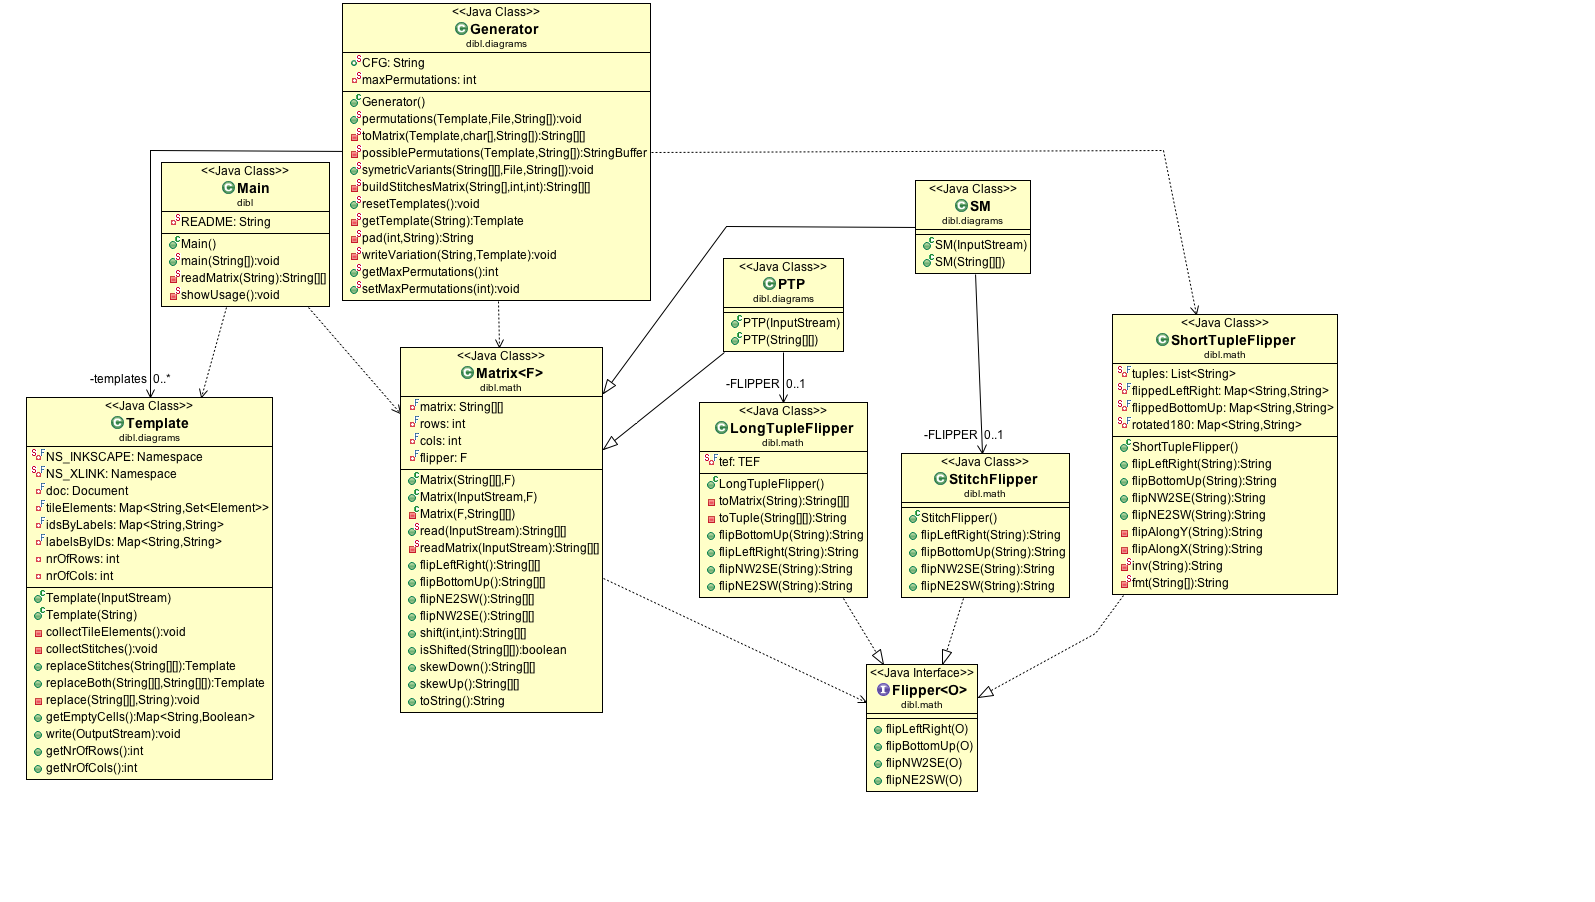
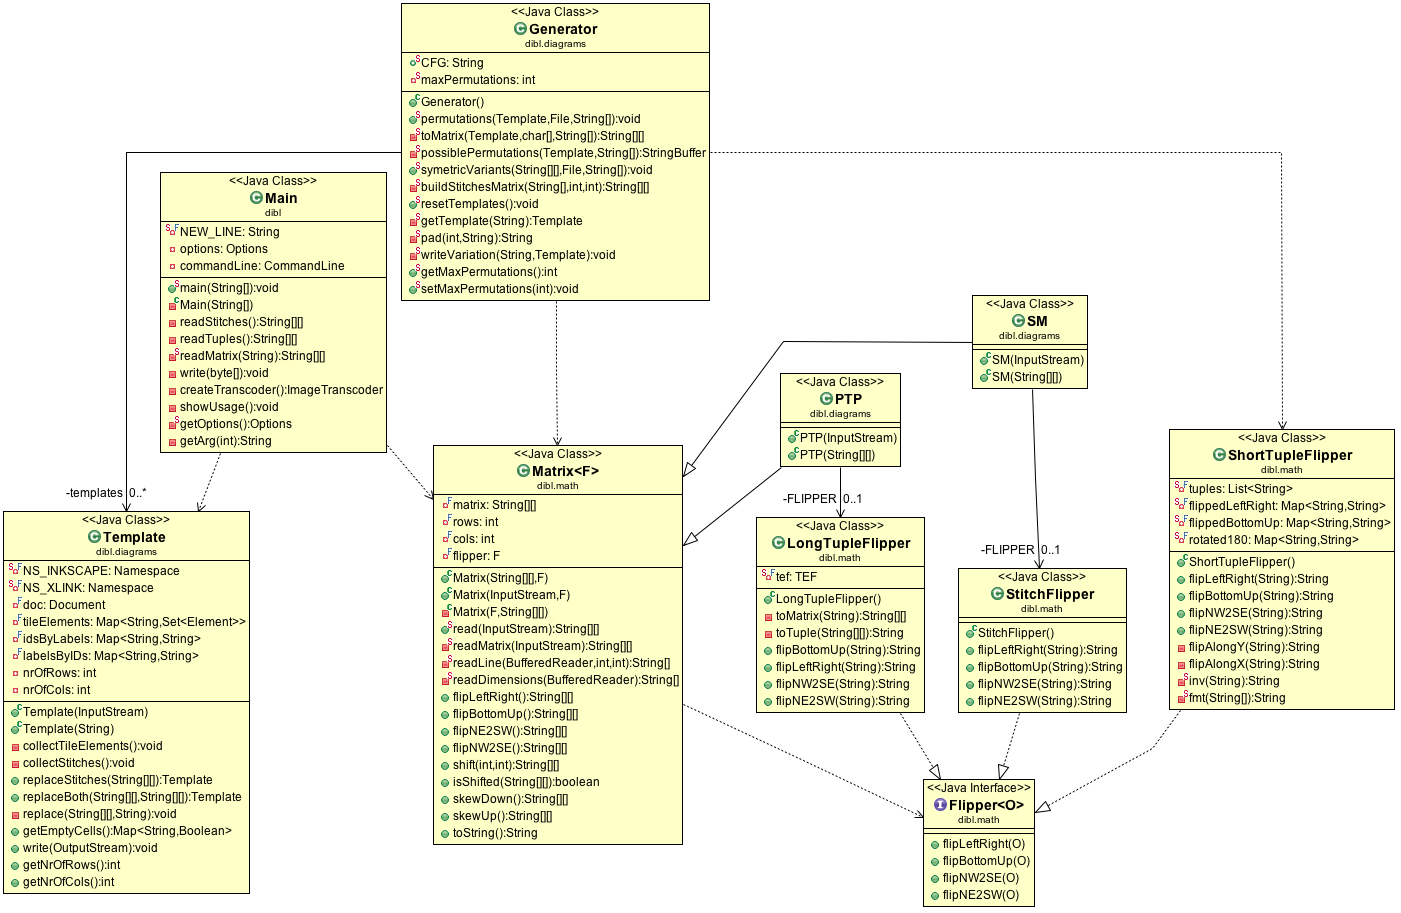
completed new command line interface
- allowing jpg/png/tiff output
- restored flip and rotate

diff --git a/src/main/java/dibl/Main.java b/src/main/java/dibl/Main.java
@@ -14,49 +14,80 @@
 // @formatter:on
 package dibl;
 
-import java.io.BufferedReader;
 import java.io.ByteArrayInputStream;
 import java.io.ByteArrayOutputStream;
 import java.io.File;
 import java.io.FileInputStream;
-import java.io.FileNotFoundException;
 import java.io.IOException;
-import java.io.InputStreamReader;
+import java.io.PrintStream;
 
+import org.apache.batik.transcoder.TranscoderException;
+import org.apache.batik.transcoder.TranscoderInput;
+import org.apache.batik.transcoder.TranscoderOutput;
+import org.apache.batik.transcoder.image.ImageTranscoder;
+import org.apache.batik.transcoder.image.JPEGTranscoder;
+import org.apache.batik.transcoder.image.PNGTranscoder;
+import org.apache.batik.transcoder.image.TIFFTranscoder;
+import org.apache.commons.cli.BasicParser;
+import org.apache.commons.cli.CommandLine;
+import org.apache.commons.cli.HelpFormatter;
+import org.apache.commons.cli.Options;
+import org.apache.commons.cli.ParseException;
 import org.jdom2.JDOMException;
 
 import dibl.diagrams.Template;
 import dibl.math.Matrix;
+import dibl.math.ShortTupleFlipper;
 
 public class Main
 {
-    private static String README = "README.txt";// not final to allow WhiteboxTest
+    private static final String NEW_LINE = System.getProperty("line.separator");
+    private Options options;
+    private CommandLine commandLine;
 
-    public static void main(final String... args) throws IOException, JDOMException
+    public static void main(final String... args) throws IOException, JDOMException, TranscoderException, ParseException
     {
+        new Main(args);
+    }
+
+    private Main(final String... args) throws ParseException, IOException, JDOMException, TranscoderException
+    {
+        options = getOptions();
+        commandLine = new BasicParser().parse(options, args);
+        if (commandLine.hasOption("help"))
+        {
+            showUsage();
+            return;
+        }
         final ByteArrayOutputStream out = new ByteArrayOutputStream();
-        switch (args.length)
+        switch (commandLine.getArgList().size())
         {
         case 1:
-            new Template(System.in).replaceStitches(readMatrix(args[0])).write(out);
+            new Template(System.in).replaceStitches(readStitches()).write(out);
             break;
         case 2:
-            new Template(System.in).replaceBoth(readMatrix(args[0]), readMatrix(args[1])).write(out);
+            new Template(System.in).replaceBoth(readStitches(), readTuples()).write(out);
             break;
         default:
             showUsage();
             return;
         }
-        System.out.write(out.toByteArray());
-        // <dependency>
-        // <groupId>batik</groupId>
-        // <artifactId>batik-rasterizer</artifactId>
-        // <version>1.6-1</version>
-        // </dependency>
+        write(out.toByteArray());
+    }
 
-        // final TranscoderInput input = new TranscoderInput(new
-        // ByteArrayInputStream(out.toByteArray()));
-        // new PNGTranscoder().transcode(input, new TranscoderOutput(System.out));
+    private String[][] readStitches() throws IOException
+    {
+        return readMatrix(getArg(0));
+    }
+
+    private String[][] readTuples() throws IOException
+    {
+        String[][] tuples = readMatrix(getArg(1));
+        if (commandLine.hasOption("x"))
+            tuples = new Matrix<ShortTupleFlipper>(tuples, new ShortTupleFlipper()).flipNW2SE();
+        if (commandLine.hasOption("y"))
+            tuples = new Matrix<ShortTupleFlipper>(tuples, new ShortTupleFlipper()).flipNE2SW();
+        return tuples;
     }
 
     private static String[][] readMatrix(final String arg) throws IOException
@@ -70,30 +101,75 @@ public class Main
         }
         catch (final IOException e)
         {
-            throw new IOException(arg + "\n" + e.getMessage());
+            throw new IOException(arg + NEW_LINE + e.getMessage());
         }
         catch (final IllegalArgumentException e)
         {
-            throw new IllegalArgumentException(arg + "\n" + e.getMessage());
+            throw new IllegalArgumentException(arg + NEW_LINE + e.getMessage());
         }
         catch (final NullPointerException e)
         {
-            throw new NullPointerException(arg + "\n" + e.getMessage());
+            throw new NullPointerException(arg + NEW_LINE + e.getMessage());
         }
     }
 
-    private static void showUsage() throws FileNotFoundException, IOException
+    private void write(final byte[] svg) throws IOException, TranscoderException
     {
-        final BufferedReader reader = new BufferedReader(new InputStreamReader(new FileInputStream(README)));
-        try
+        final ImageTranscoder transcoder = createTranscoder();
+        if (transcoder == null)
+            System.out.write(svg);
+        else
         {
-            String line;
-            while (null != (line = reader.readLine()))
-                System.err.println(line);
+            final TranscoderOutput output = new TranscoderOutput(System.out);
+            final TranscoderInput input = new TranscoderInput(new ByteArrayInputStream(svg));
+            transcoder.transcode(input, output);
         }
-        finally
+    }
+
+    private ImageTranscoder createTranscoder() throws TranscoderException
+    {
+        final String ext = commandLine.getOptionValue("ext", "svg").toLowerCase();
+        if (ext.equals("png"))
+            return new PNGTranscoder();
+        else if (ext.equals("tiff"))
+            return new TIFFTranscoder();
+        else if (ext.equals("jpg"))
         {
-            reader.close();
+            final float quality = Float.parseFloat(commandLine.getOptionValue("q", "0.95"));
+            final JPEGTranscoder transcoder = new JPEGTranscoder();
+            transcoder.addTranscodingHint(JPEGTranscoder.KEY_QUALITY, quality);
+            return transcoder;
         }
+        else if (!ext.equals("svg"))
+        {
+            System.err.println("unknown output type [" + ext + "] applied svg");
+        }
+        return null;
+    }
+
+    private void showUsage()
+    {
+        final String usage = "java -jar DiBL.jar [options] stitches [tuples]";
+        final String footer = "rotate is flip along X + Y" + NEW_LINE + "stitches and tuples are either a file or a multiline string";
+        final PrintStream saved = System.out;
+        System.setOut(System.err);
+        new HelpFormatter().printHelp(usage, "options:", options, footer);
+        System.setOut(saved);
+    }
+
+    private static Options getOptions()
+    {
+        final Options options = new Options();
+        options.addOption("help", false, "print this message");
+        options.addOption("x", false, "flip tuples along x axis");
+        options.addOption("y", false, "flip tuples along y axis");
+        options.addOption("ext", true, "output type: svg, png, jpg, tiff. Default svg.");
+        options.addOption("q", true, "jpg quality. Default 0.95 allowing 5% loss.");
+        return options;
+    }
+
+    private String getArg(final int i)
+    {
+        return (String) commandLine.getArgList().get(i);
     }
 }

diff --git a/src/test/java/dibl/MainTest.java b/src/test/java/dibl/MainTest.java
@@ -22,49 +22,74 @@ import java.io.PrintStream;
 import org.junit.After;
 import org.junit.Before;
 import org.junit.Test;
-import org.powermock.reflect.Whitebox;
 
 public class MainTest
 {
+    private static final String DIAMOND_PATTERNS = "src/main/assembly/input/PairTraversal/diamond/";
     private static final String BRICK_PATTERNS = "src/main/assembly/input/PairTraversal/brick/";
+    private static final String STITCHES = "4;4\n" + "tcptc;tc;tcptc;tc\n" + "tc;tcptc;tc;tcptc\n" + "tcptc;tc;tcptc;tc\n" + "tc;tcptc;tc;tcptc\n";
     private PrintStream savedOut;
     private InputStream savedIn;
 
     @Test
     public void noArgs() throws Exception
     {
-        Whitebox.setInternalState(Main.class, "README", "src/main/assembly/README.txt");
         Main.main();
     }
 
     @Test
     public void inlineSingleArg() throws Exception
     {
-        System.setIn(new FileInputStream(BRICK_PATTERNS+"3x3.svg"));
-        System.setOut(new PrintStream(new FileOutputStream("target/main1.svg")));
-        Whitebox.setInternalState(Main.class, "README", "src/main/assembly/README.txt");
-        Main.main("3\t3\ntcptc\ttc\ttcptc\ntc\ttcptc\ttc\ntcptc\ttc\ttcptc");
+        System.setIn(new FileInputStream(DIAMOND_PATTERNS + "3x3.svg"));
+        System.setOut(new PrintStream(new FileOutputStream("target/main1.png")));
+        Main.main("-ext", "png", STITCHES);
     }
 
     @Test
     public void inlineTwoArgs() throws Exception
     {
-        System.setIn(new FileInputStream(BRICK_PATTERNS+"3x3.svg"));
+        System.setIn(new FileInputStream(DIAMOND_PATTERNS + "3x3.svg"));
         System.setOut(new PrintStream(new FileOutputStream("target/main2.svg")));
-        Whitebox.setInternalState(Main.class, "README", "src/main/assembly/README.txt");
-        Main.main("3\t3\ntcptc\ttc\ttcptc\ntc\ttcptc\ttc\ntcptc\ttc\ttcptc"//
-                , "3\t3\n" //
-                        + "(0,1,1,0,-1,-1)\t(1,0,1,0,-1,-1)\t(0,0,1,1,-1,-1)\n" //
-                        + "(0,1,1,-1,-1,0)\t(-1,1,0,1,0,-1)\t(0,1,1,0,-1,-1)\n" //
-                        + "(-1,1,1,0,-1,0)\t(0,0,0,0,0,0)\t(1,1,0,-1,0,-1) ");
+        Main.main(STITCHES, "3\t3\n" //
+                + "(0,1,1,0,-1,-1)\t(1,0,1,0,-1,-1)\t(0,0,1,1,-1,-1)\n" //
+                + "(0,1,1,-1,-1,0)\t(-1,1,0,1,0,-1)\t(0,1,1,0,-1,-1)\n" //
+                + "(-1,1,1,0,-1,0)\t(0,0,0,0,0,0)\t(1,1,0,-1,0,-1)");
     }
 
     @Test
-    public void customMix3x3new() throws Exception
+    public void hybrid() throws Exception
     {
-        System.setIn(new FileInputStream(BRICK_PATTERNS + "/3x3.svg"));
-        System.setOut(new PrintStream(new FileOutputStream("target/3x3.svg")));
-        Main.main(BRICK_PATTERNS + "3x3/3x3_1.txt", "target/3x3", "tc", "tcptc");
+        System.setIn(new FileInputStream(DIAMOND_PATTERNS + "4x4.svg"));
+        System.setOut(new PrintStream(new FileOutputStream("target/mainRotated.jpg")));
+        Main.main("-x", "-y", "-ext", "jpg", STITCHES, DIAMOND_PATTERNS + "4x4/4x4_2.txt");
+    }
+
+    @Test
+    public void hybridX() throws Exception
+    {
+        System.setIn(new FileInputStream(DIAMOND_PATTERNS + "3x3.svg"));
+        System.setOut(new PrintStream(new FileOutputStream("target/mainFlippedAlongX.jpg")));
+        Main.main("-x", "-ext", "jpg", STITCHES, DIAMOND_PATTERNS + "3x3/3x3_2.txt");
+    }
+
+    @Test
+    public void hybridY() throws Exception
+    {
+        System.setIn(new FileInputStream(DIAMOND_PATTERNS + "3x3.svg"));
+        System.setOut(new PrintStream(new FileOutputStream("target/mainFlippedAlongY.jpg")));
+        Main.main("-y", "-ext", "jpg", STITCHES, DIAMOND_PATTERNS + "3x3/3x3_2.txt");
+    }
+
+    @Test
+    public void brick() throws Exception
+    {
+        System.setIn(new FileInputStream(BRICK_PATTERNS + "4x4.svg"));
+        System.setOut(new PrintStream(new FileOutputStream("target/main3.svg")));
+        Main.main(STITCHES, "4;4\n" //
+                + "(-1,1,0,1,-1,0,0,0);(-1,1,0,0,1,-1,0,0);(-1,0,0,1,1,-1,0,0);(1,0,0,0,1,-1,0,-1)\n" //
+                + "(-1,1,0,0,1,-1,0,0);(-1,1,0,0,1,-1,0,0);(-1,1,0,0,1,-1,0,0);(-1,0,0,1,1,-1,0,0)\n" //
+                + "(1,1,0,0,-1,0,0,-1);(1,1,0,0,-1,-1,0,0);(1,1,0,0,-1,-1,0,0);(1,1,0,0,-1,-1,0,0)\n" //
+                + "(-1,1,0,1,-1,0,0,0);(-1,1,0,0,1,0,0,-1);(-1,1,0,0,1,-1,0,0);(1,0,0,0,1,-1,0,-1)\n");
     }
 
     @Before
